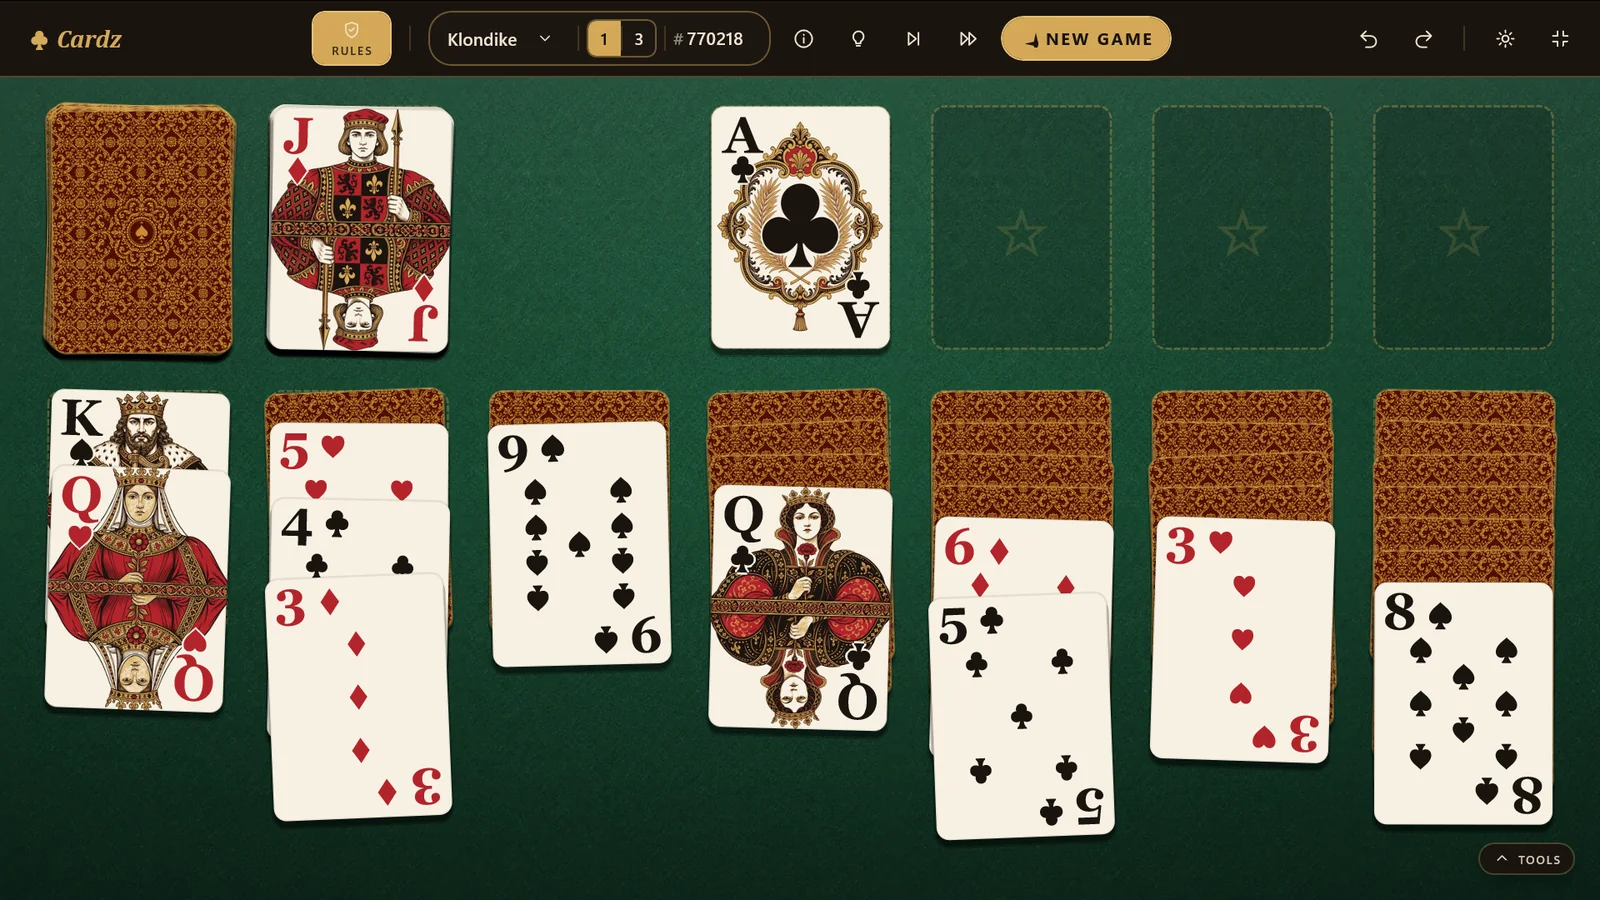
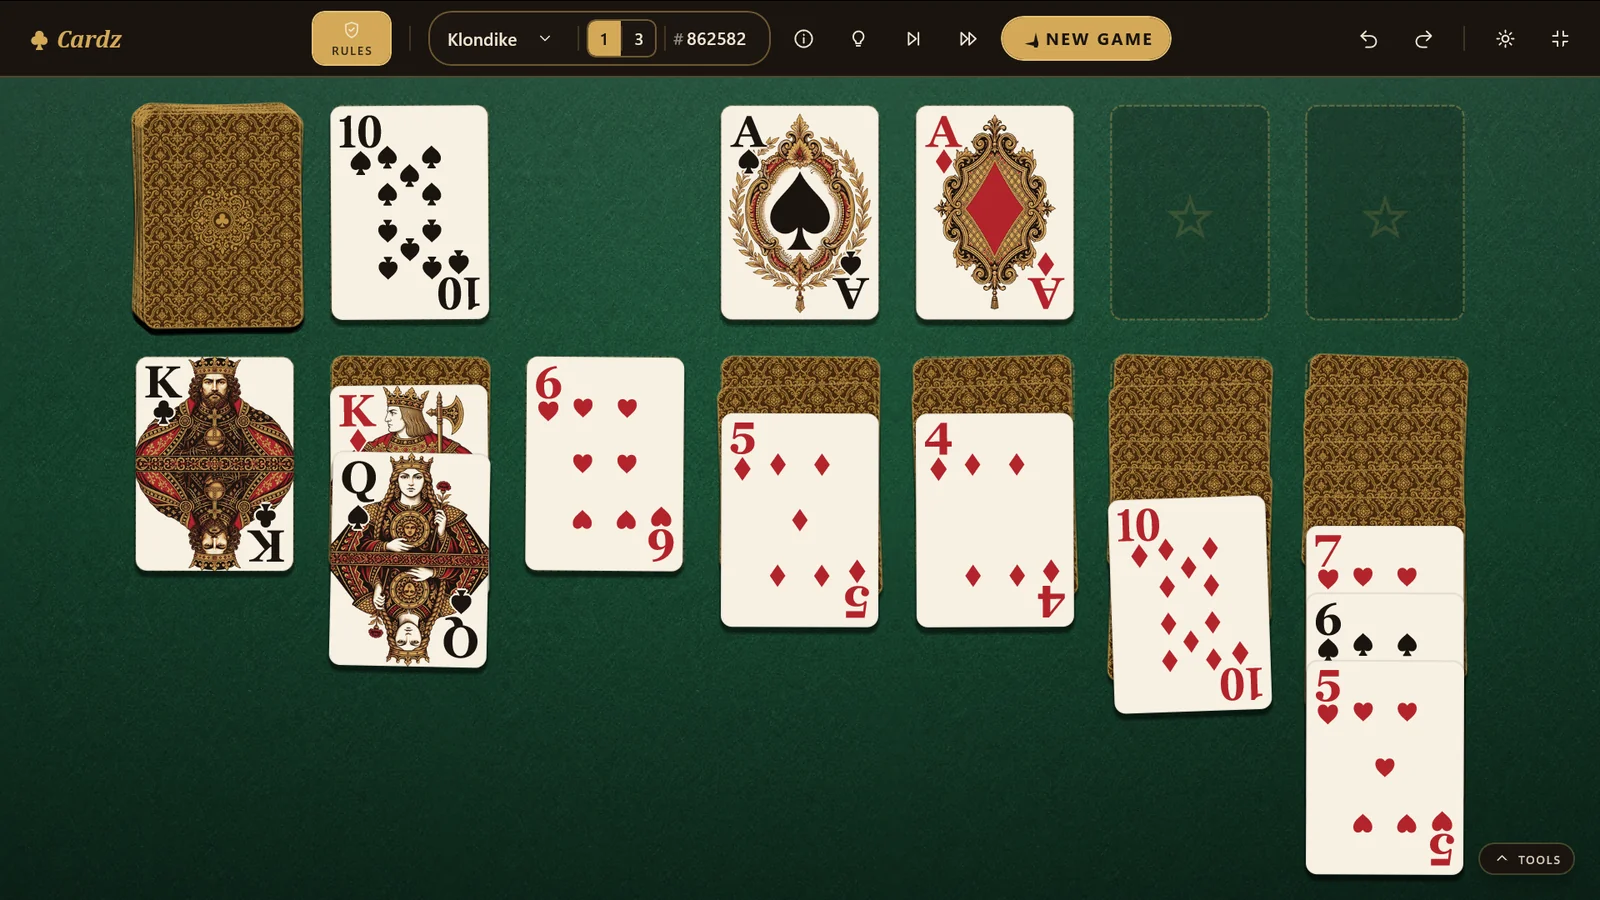
refresh(screenshots): Klondike is reshot, and FreeCell's capture is read from slot 11
Claude-Session: https://claude.ai/code/session_016zeUmgH11eP7vK8giVrU7G

diff --git a/scripts/import-screenshots.py b/scripts/import-screenshots.py
@@ -6,7 +6,7 @@ root = Path(__file__).resolve().parents[1]
 source = root.parent / "cardz-win/docs/screenshots/store"
 captures = {
     "01-klondike-felthouse.png": "klondike",
-    "06-freecell-deepfield.png": "freecell",
+    "11-freecell-deepfield.png": "freecell",
     "08-yukon-filigree.png": "yukon",
     "10-sandbox-monosolid.png": "sandbox-monosolid",
     "02-labellelucie-olympus.png": "la-belle-lucie",

diff --git a/README.md b/README.md
@@ -83,8 +83,9 @@ Each is a run of that band beside its own mirror image, so the tile's two edges
 are identical and `repeat-x` shows no seam. Only Felt House and Valhalla qualify;
 the script's header says why the other decks do not.
 
-`assets/screenshots/*.webp`, the home page's gallery, are eight of the Store
-captures in cardz-win's `docs/screenshots/store/`, converted without cropping.
+`assets/screenshots/*.webp`, the home page's gallery, are eight of the captures
+in cardz-win's `docs/screenshots/store/`, converted without cropping. The first
+ten there are the Store set; captures numbered past ten are this site's alone.
 This one runs from this repo and needs Pillow:
 
 ```powershell
